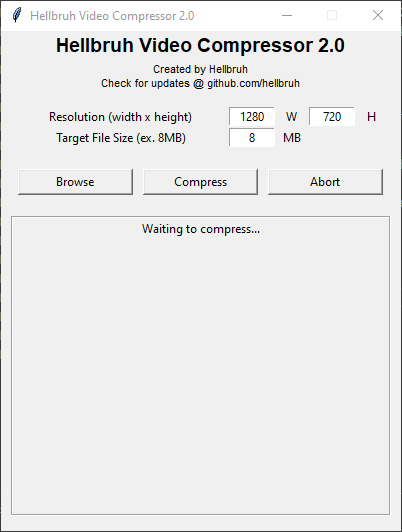
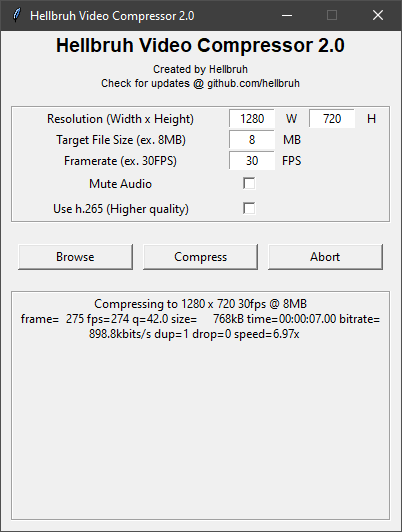
Implemented more options

diff --git a/HellbruhVideoCompressor.py b/HellbruhVideoCompressor.py
@@ -29,11 +29,12 @@ class App:
         author_label.pack()
 
         # Options
-        options_frame = Frame(master, width=380, height=250)
+        options_frame = LabelFrame(master, width=380)
         options_frame.pack()
         options_frame.pack_propagate(0)
 
-        res_label = Label(options_frame, text='Resolution (width x height)', width=30)
+        # Resolution
+        res_label = Label(options_frame, text='Resolution (Width x Height)', width=30)
         res_label.grid(row=0, column=0)
 
         e_res_w = Entry(options_frame, width=7, justify='center')
@@ -50,6 +51,7 @@ class App:
         res_h_hint_label = Label(options_frame, text='H', width=4, justify='left')
         res_h_hint_label.grid(row=0, column=4)
 
+        # Size
         size_label = Label(options_frame, text='Target File Size (ex. 8MB)', width=28)
         size_label.grid(row=1, column=0)
 
@@ -60,19 +62,50 @@ class App:
         size_hint_label = Label(options_frame, text='MB', width=4, justify='left')
         size_hint_label.grid(row=1, column=2)
 
+        # FPS
+        fps_label = Label(options_frame, text='Framerate (ex. 30FPS)', width=28)
+        fps_label.grid(row=2, column=0)
+
+        e_fps = Entry(options_frame, width=7, justify='center')
+        e_fps.insert(0, '30')
+        e_fps.grid(row=2, column=1)
+
+        fps_hint_label = Label(options_frame, text='FPS', width=4, justify='left')
+        fps_hint_label.grid(row=2, column=2)
+
+        # Mute Audio
+        mute_label = Label(options_frame, text='Mute Audio', width=28)
+        mute_label.grid(row=3, column=0)
+
+        mute_var = IntVar()
+
+        c_mute = Checkbutton(options_frame, variable=mute_var)
+        c_mute.grid(row=3, column=1)
+
+        # Video Codec
+        codec_label = Label(options_frame, text='Use h.265 (Higher quality)', width=28)
+        codec_label.grid(row=4, column=0)
+
+        h265_var = IntVar()
+
+        c_h265 = Checkbutton(options_frame, variable=h265_var)
+        c_h265.grid(row=4, column=1)
+
+        # Spacer
         spacer = Label(master, text='')
         spacer.pack()
 
         # Browse
-        browse_frame = Frame(master, width=380, height=300)
+        browse_frame = Frame(master, width=380, height=150)
         browse_frame.pack()
         browse_frame.pack_propagate(0)
 
+        # Spacer
         spacer_2 = Label(master, text='')
         spacer_2.pack()
 
         # Output
-        output_frame = LabelFrame(master, width=380, height=300)
+        output_frame = LabelFrame(master, width=380, height=230)
         output_frame.pack()
         output_frame.pack_propagate(0)
 
@@ -86,7 +119,7 @@ class App:
         abort_button = Button(browse_frame, text='Abort', width=15, command=self.abort)
         abort_button.grid(row=0, column=2, padx=5)
 
-        compress_button = Button(browse_frame, text='Compress', width=15, command=partial(self.compress, e_size, e_res_w, e_res_h, output_field))
+        compress_button = Button(browse_frame, text='Compress', width=15, command=partial(self.compress, e_size, e_res_w, e_res_h, e_fps, mute_var, h265_var, output_field))
         compress_button.grid(row=0, column=1, padx=5)
     
     def abort(self):
@@ -116,7 +149,7 @@ class App:
         output_field.configure(text=file)
         root.update()
     
-    def update_output(self, proc, e_size, e_w, e_h, output_field):
+    def update_output(self, proc, size, w, h, fps, output_field):
         line = proc.stdout.readline()
         print(line)
 
@@ -128,15 +161,15 @@ class App:
             global is_compressing
             is_compressing = False
         else:
-            desired_file_size = int(e_size.get())
-            output_field.configure(text=f'Compressing to {e_w} x {e_h} @ {desired_file_size}MB\n' + str(line), wraplength=370)
+            desired_file_size = int(size.get())
+            output_field.configure(text=f'Compressing to {w} x {h} {fps}fps @ {desired_file_size}MB\n' + str(line), wraplength=370)
 
             root.update()
             
             global job
-            job = root.after(1, self.update_output(proc, e_size, e_w, e_h, output_field))
+            job = root.after(1, self.update_output(proc, size, w, h, fps, output_field))
     
-    def compress(self, e_size, e_res_w, e_res_h, output_field):
+    def compress(self, size, w, h, fps, mute, h265, output_field):
         if file == '':
             print('No file selected!')
             return
@@ -156,7 +189,7 @@ class App:
         origin_duration_s = float(origin_duration_s.stdout.readline())
 
         print('Video duration: ' + str(origin_duration_s))
-        
+
         origin_audio_bitrate_kbit_s = subprocess.Popen(f'ffprobe.exe -v 0 -select_streams a:0 -show_entries stream=bit_rate -of compact=p=0:nk=1 "{file}"', stdout=subprocess.PIPE, shell=True)
 
         try:
@@ -166,20 +199,33 @@ class App:
             target_audio_bitrate_kbit_s = 1
             print('Audio bitrate: No audio detected')
 
-        desired_file_size = int(e_size.get())
+        desired_file_size = int(size.get())
         print(f'New file size: {desired_file_size}MB')
 
         quick_mafs = ((desired_file_size * 8192.0) / (1.048576 * origin_duration_s) - target_audio_bitrate_kbit_s)
         print('New video bitrate: ' + str(quick_mafs))
 
-        desired_w = e_res_w.get()
-        desired_h = e_res_h.get()
-        print(f'New video resolution: {desired_w}:{desired_h}')
+        desired_w = w.get()
+        desired_h = h.get()
+        desired_fps = fps.get()
+        print(f'New video resolution: {desired_w}:{desired_h} @ {desired_fps}fps')
 
-        cmd = f'ffmpeg.exe -y -i "{file}" -c:v libx264 -b:v {quick_mafs}k -vf scale={desired_w}:{desired_h} -pass 1 -an -f mp4 temp && ffmpeg.exe -y -i "{file}" -c:v libx264 -b:v {quick_mafs}k -vf scale={desired_w}:{desired_h} -pass 2 -c:a aac -b:a {target_audio_bitrate_kbit_s}k "{file}-Compressed.mp4"'
+        desired_audio = f'-c:a aac -b:a {target_audio_bitrate_kbit_s}k'
+
+        if mute.get() == 1:
+            desired_audio = '-an'
+            print('Audio muted')
+        
+        desired_codec = '-c:v libx264'
+
+        if h265.get() == 1:
+            desired_codec = '-c:v libx265'
+            print('Using h.265 video codec')
+
+        cmd = f'ffmpeg.exe -y -i "{file}" {desired_codec} -b:v {quick_mafs}k -r {desired_fps} -vf scale={desired_w}:{desired_h} -pass 1 -an -f mp4 temp && ffmpeg.exe -y -i "{file}" {desired_codec} -b:v {quick_mafs}k -r {desired_fps} -vf scale={desired_w}:{desired_h} -pass 2 {desired_audio} "{file}-Compressed.mp4"'
         proc = subprocess.Popen(cmd, stdout=subprocess.PIPE, stderr=subprocess.STDOUT, universal_newlines=True, shell=True)
         
-        self.update_output(proc, e_size, desired_w, desired_h, output_field)
+        self.update_output(proc, size, desired_w, desired_h, desired_fps, output_field)
 
 root = Tk()
 app = App(root)
